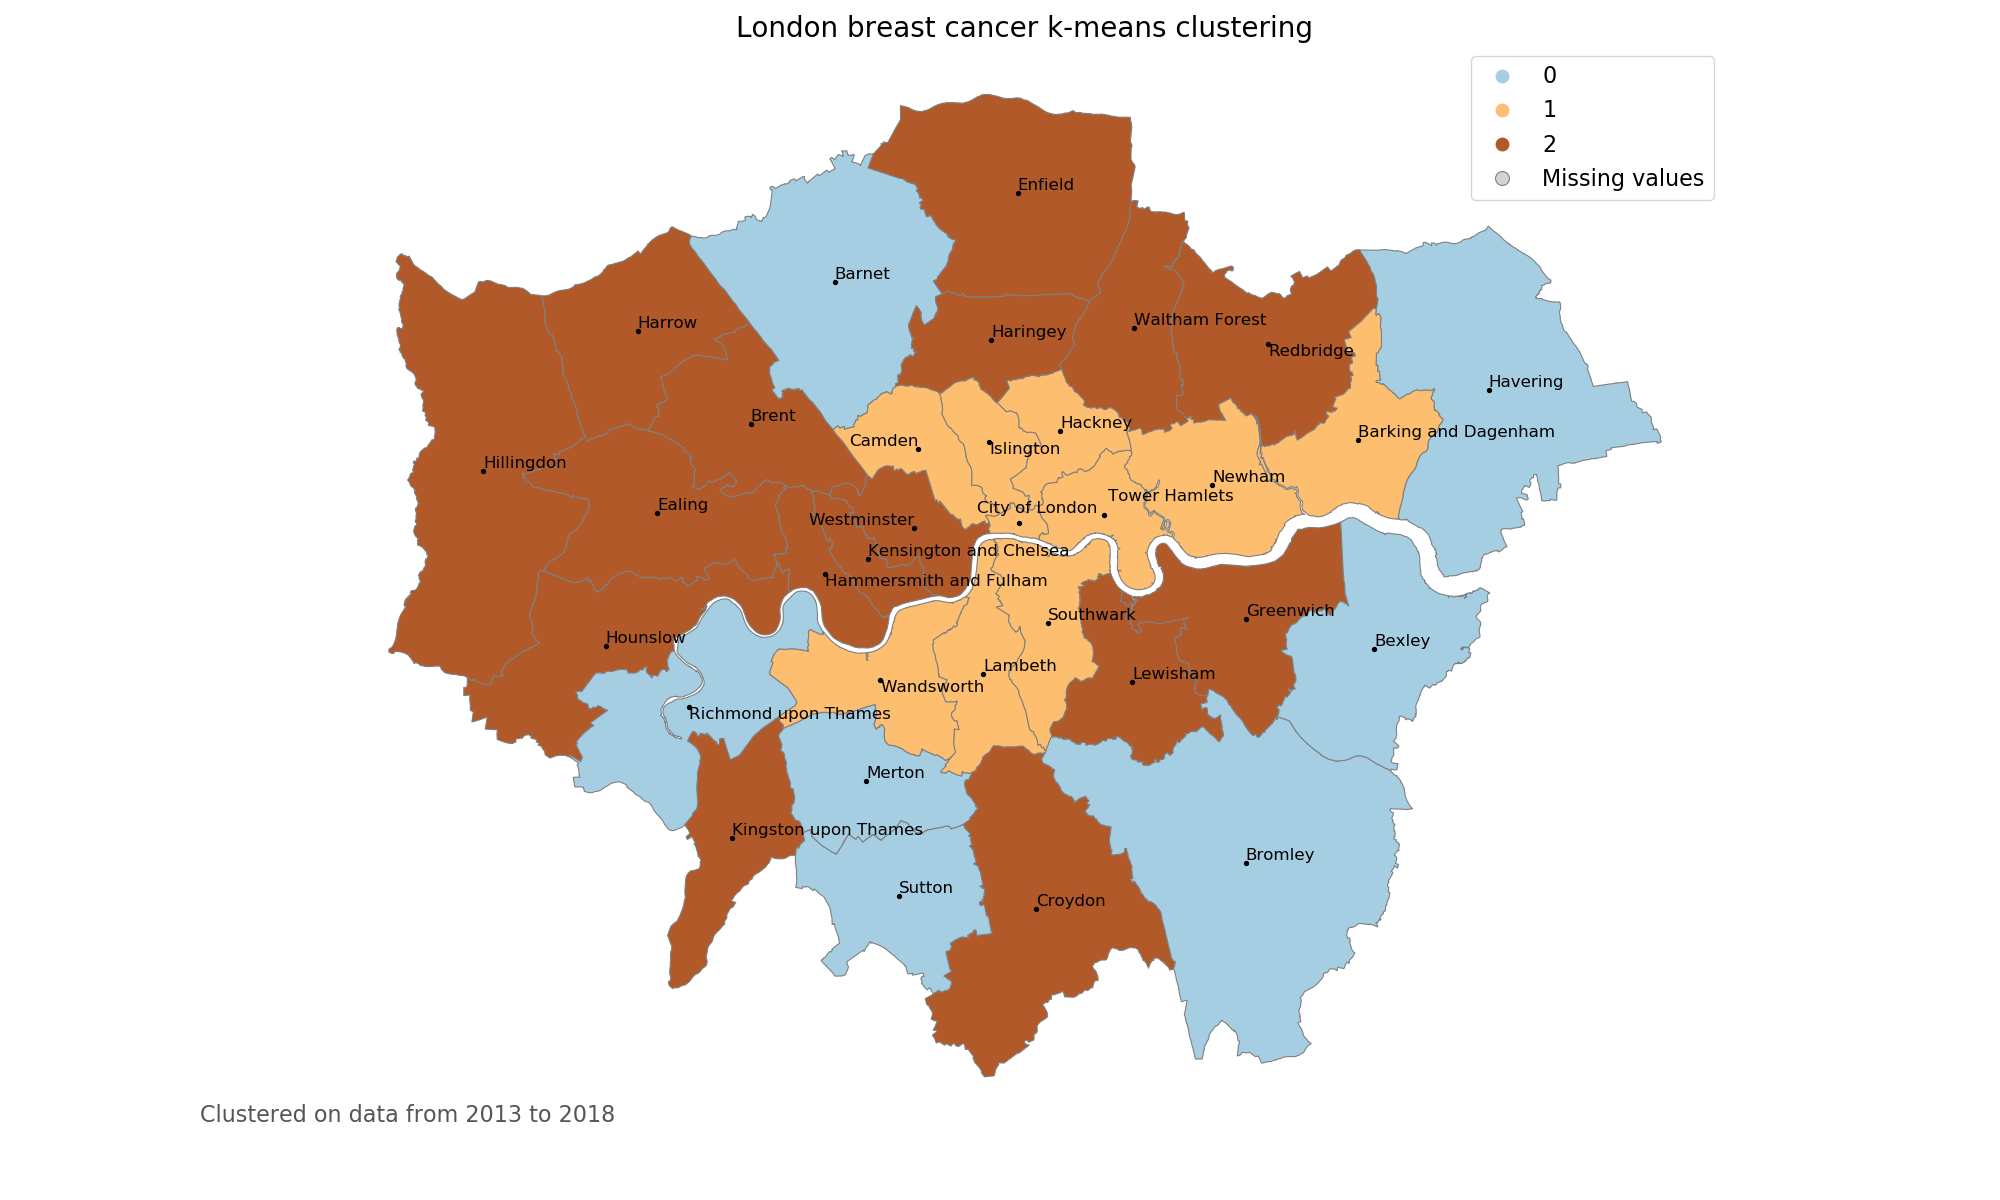
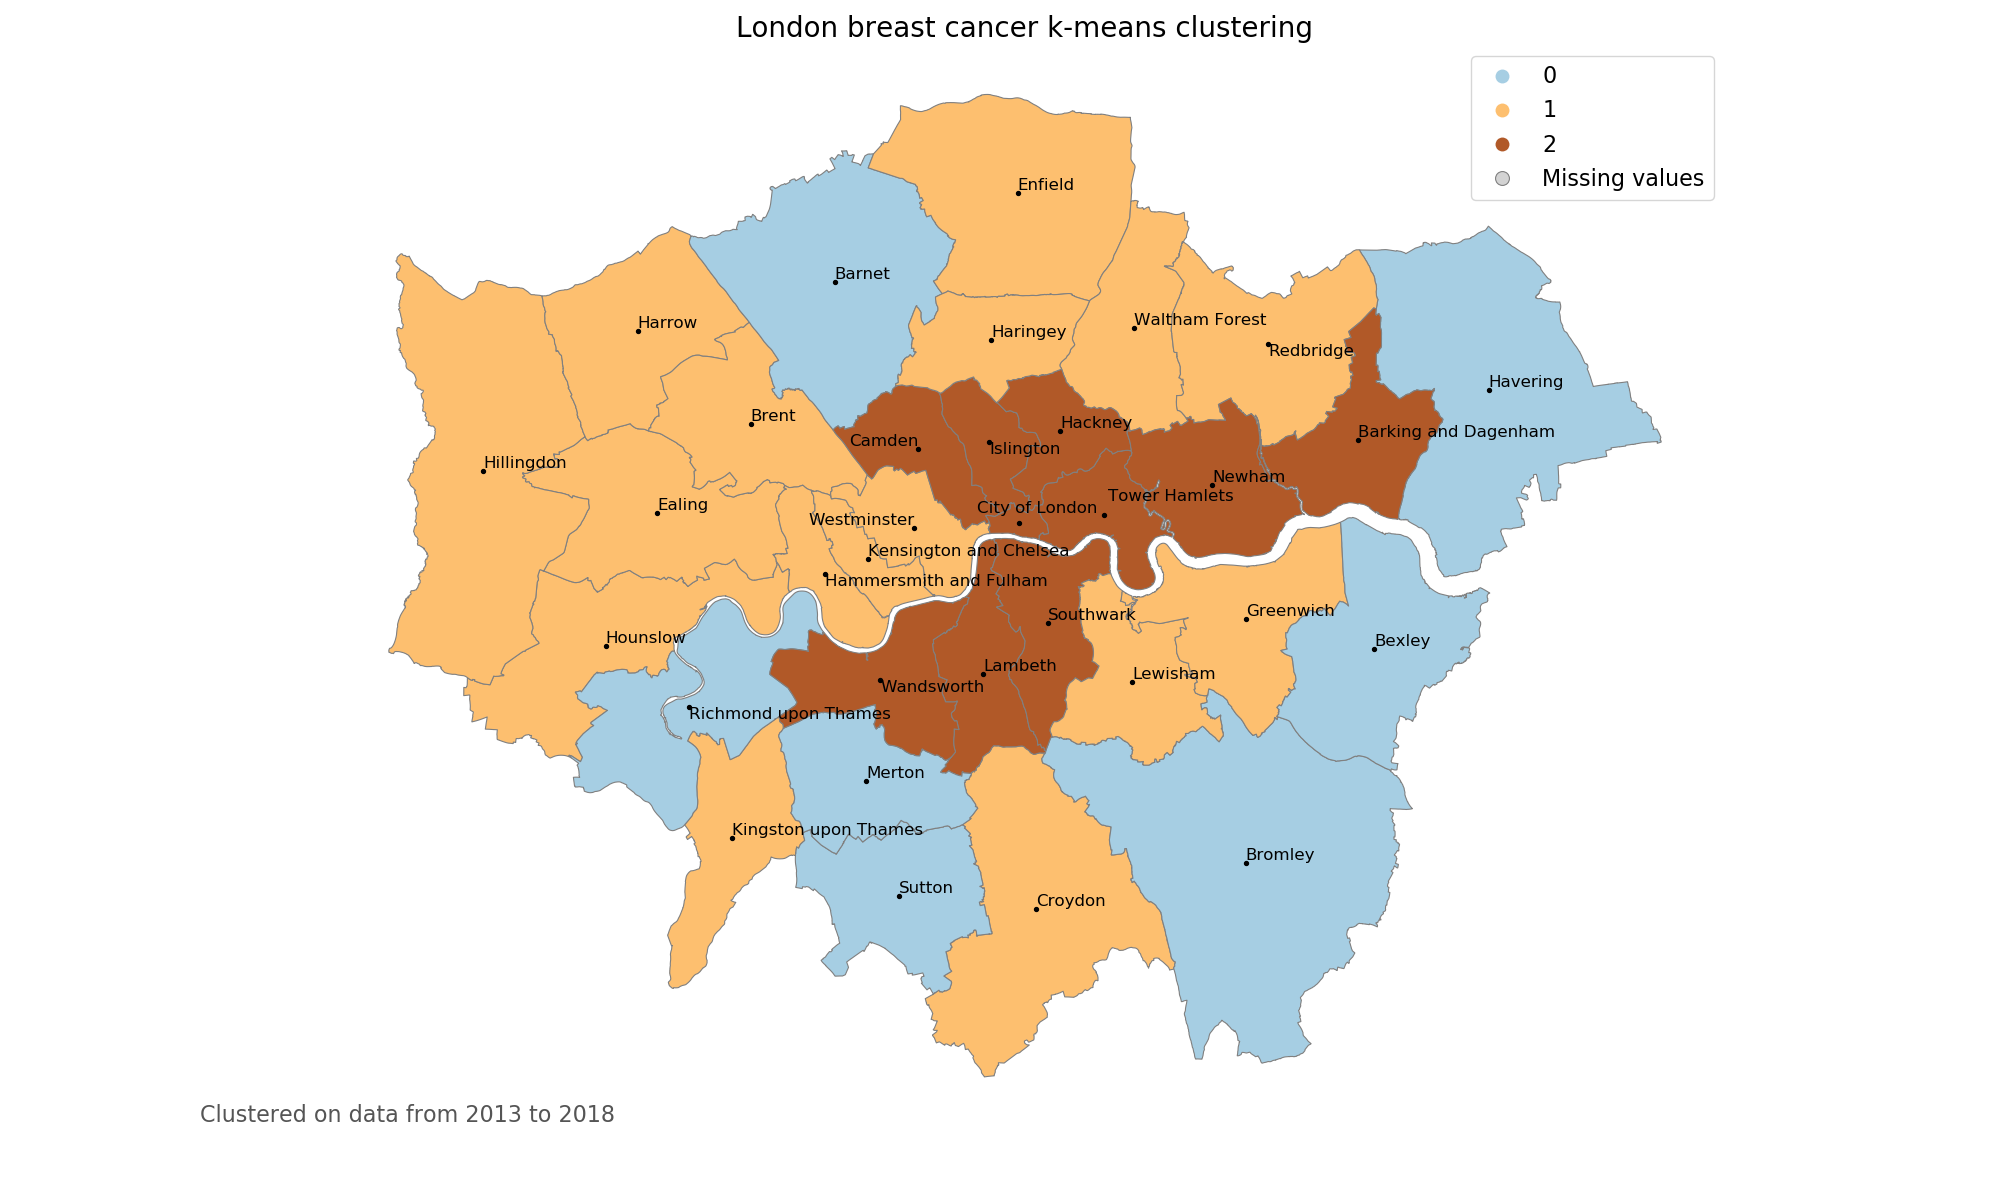
Fiddled with code to produce high-medium-low cluster label order.

Changed region(s): [[0.186, 0.0617, 0.744, 0.8942]]

diff --git a/data/exploration/kmeans_clustering.py b/data/exploration/kmeans_clustering.py
@@ -10,10 +10,11 @@ from matplotlib.colors import ListedColormap
 import seaborn as sns
 import adjustText as aT
 
-variable = "both_ncras_no2"  # ncras or no2
+variable = "ncras"  # ncras or no2 or both_ncras_no2
 cluster_start_year = 2013
 cluster_end_year = 2018
-number_of_clusters = 4
+number_of_clusters = 3
+save_results = False
 
 laqn_start_date = "1997-01-01"
 laqn_end_date = "2018-01-01"
@@ -100,7 +101,15 @@ print(f"\nRetained {len(cluster_ccgs)} CCGs.")
 # Perform clustering
 print("\nK-MEANS CLUSTERING\n")
 
-kmeans = KMeans(n_clusters=number_of_clusters, random_state=1)
+if variable == "ncras" and number_of_clusters == 3:
+    start_points = np.array([[0.00016], [0.00012], [0.0001]])
+    random_state = False
+    n_init = 1
+else:
+    start_points = "k-means++"
+    random_state = 1
+    n_init = 10
+kmeans = KMeans(n_clusters=number_of_clusters, init=start_points, n_init=n_init, random_state=random_state)
 kmeans.fit(cluster_array)
 
 print(f"Cluster centres\n{kmeans.cluster_centers_}\n")
@@ -110,7 +119,8 @@ ccg_cluster_df = pd.DataFrame()
 ccg_cluster_df["ccg"] = cluster_ccgs
 ccg_cluster_df["cluster_label"] = kmeans.labels_
 # print(cluster_df.shape)
-ccg_cluster_df.to_csv(f"{variable}_{number_of_clusters}_clusters_{cluster_start_year}-{cluster_end_year}.csv")
+if save_results:
+    ccg_cluster_df.to_csv(f"{variable}_{number_of_clusters}_clusters_{cluster_start_year}-{cluster_end_year}.csv")
 
 # Load London map
 load_folder = join(dirname(realpath(__file__)), "London_GIS", "statistical-gis-boundaries-london", "ESRI")
@@ -171,4 +181,5 @@ aT.adjust_text(borough_text, expand_points=(1, 1), expand_text=(1, 1))
 # Display the plot and save as a PNG file.
 plt.show()
 
-fig.savefig(f"{variable}_{number_of_clusters}_clusters_{cluster_start_year}-{cluster_end_year}.png", dpi=fig.dpi)
+if save_results:
+    fig.savefig(f"{variable}_{number_of_clusters}_clusters_{cluster_start_year}-{cluster_end_year}.png", dpi=fig.dpi)
